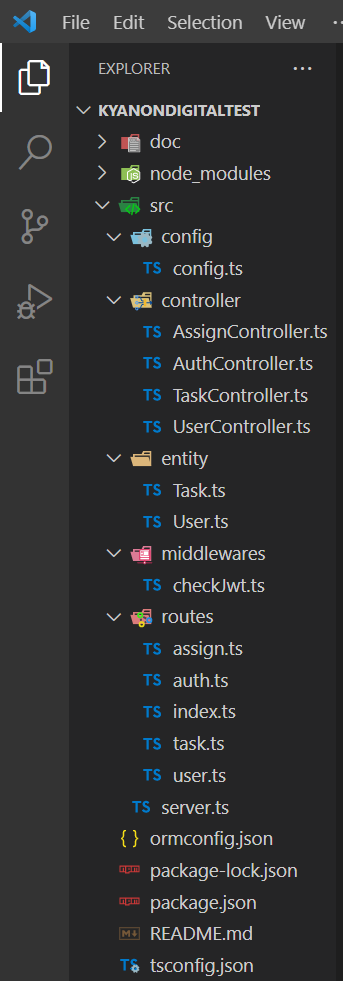
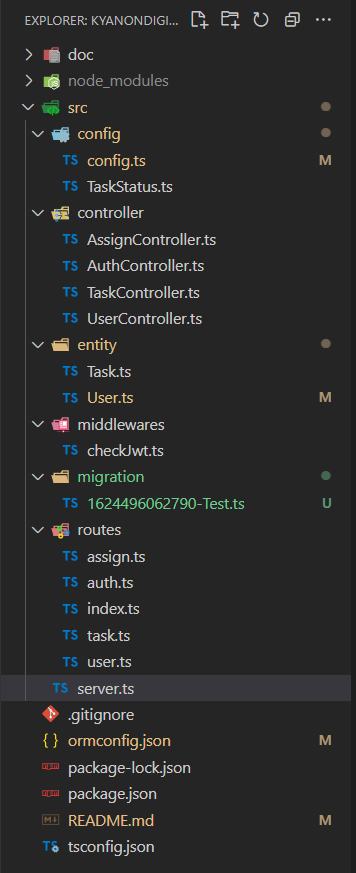
[1.0.3] Update user guides, migration feature.

diff --git a/src/migration/1624496062790-Test.ts b/src/migration/1624496062790-Test.ts
@@ -1,0 +1,19 @@
+import {MigrationInterface, QueryRunner} from "typeorm";
+import * as bcrypt from "bcryptjs";
+
+export class User1624496062791 implements MigrationInterface {
+    public async up(queryRunner: QueryRunner): Promise<void> {
+        await queryRunner.query(`INSERT INTO user VALUES (1, "username1", "${bcrypt.hashSync("Aa@123456", 8)}", "2021/11/21", "2021/11/21")`);
+        await queryRunner.query(`INSERT INTO user VALUES (2, "username2", "${bcrypt.hashSync("Aa@123456", 8)}", "2021/11/21", "2021/11/21")`);
+
+        await queryRunner.query(`INSERT INTO task VALUES (1, "name1", "description1", "2021/12/21", "NEW", "2021/11/21", "2021/11/21", 1)`);
+        await queryRunner.query(`INSERT INTO task VALUES (2, "name2", "description2", "2021/12/22", "NEW", "2021/11/22", "2021/11/22", 2)`);
+        await queryRunner.query(`INSERT INTO task VALUES (3, "name3", "description3", "2021/12/23", "NEW", "2021/11/23", "2021/11/23", 2)`);
+        await queryRunner.query(`INSERT INTO task VALUES (4, "name4", "description4", "2021/12/24", "NEW", "2021/11/24", "2021/11/24", 1)`);
+        await queryRunner.query(`INSERT INTO task VALUES (5, "name5", "description5", "2021/12/25", "NEW", "2021/11/25", "2021/11/25", 1)`);
+    }
+
+    public async down(queryRunner: QueryRunner): Promise<void> {
+    }
+
+}

diff --git a/README.md b/README.md
@@ -38,6 +38,14 @@
 
 ## Điều kiện tiên quyết
 Đã cài đặt nodejs. <https://nodejs.org/en/download/>
+Cài đặt thư viện ts-node
+```console
+$ npm i ts-node -g
+```
+Cài đặt thư viện typeorm
+```console
+$ npm i typeorm -g
+```
 
 ## Cách cài đặt
 * **Bước 1**: Cài đặt những thư viện cần thiết cho dự án
@@ -46,10 +54,15 @@ $ npm install
 ```
 * **Bước 2**: Thiết lặp cài đặt cơ sở dữ liệu trong file `./ormconfig.json`
 * **Bước 3**: Thiết lặp cài đặt thông tin khác trong file `./src/config/config.ts`
-* **Bước 4**: Khởi chạy dự án
+* **Bước 4**: Khởi chạy dự án và tạo những bảng được định nghĩa vào cơ sở dữ liệu (nếu chưa có trong cơ sở dữ liệu)
 ```console
 $ npm start
 ```
+* **Bước 5**: Tạo dữ liệu mẫu `mật khẩu mặc định của user là: Aa@123456`
+```console
+$ ts-node --transpile-only ./node_modules/typeorm/cli.js migration:run
+```
+* **Bước 6**: Bạn phải thực hiện lại bước 4 nếu bạn đã dừng server.
 
 ## Cách sử dụng
 ### **Hướng dẫn sử dụng ứng dụng bằng [Insomnia][https://insomnia.rest/download]**
